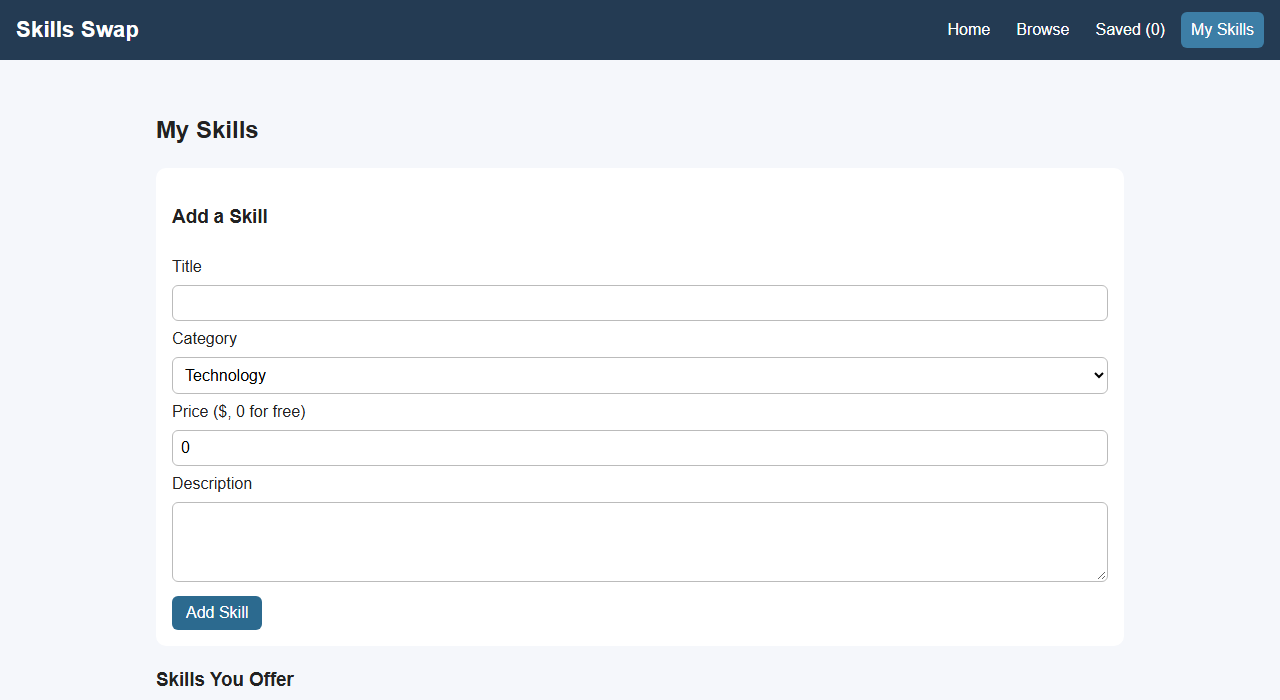
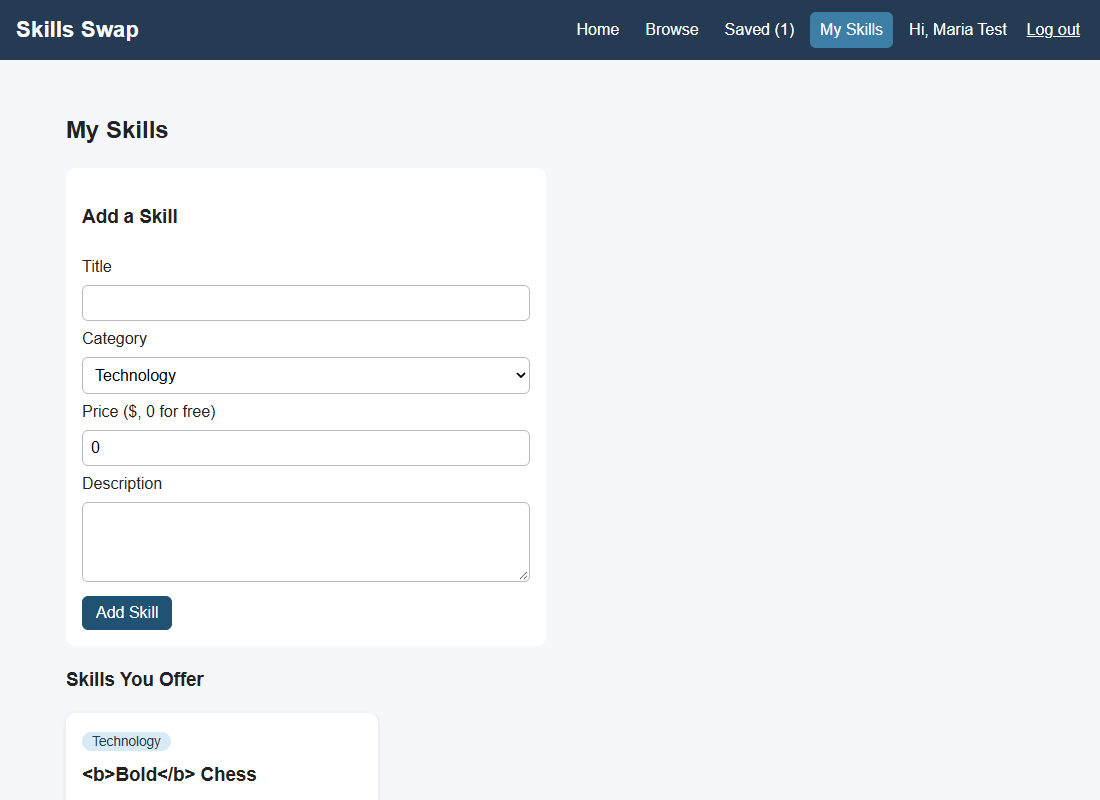
Update README for backend/auth, add login screenshots

diff --git a/README.md b/README.md
@@ -30,6 +30,12 @@ Skill details with related books from Open Library:
 
 ![Details](screenshots/details.png)
 
+Login and a registration validation error:
+
+![Login](screenshots/login.png)
+
+![Register error](screenshots/register-error.png)
+
 Mobile view (narrow screen, cards stack in one column):
 
 ![Mobile](screenshots/browse-mobile.png)
@@ -43,25 +49,36 @@ npm test
 
 ## Reused from earlier assignments
 The skill data shape (title, category, price, description), the category filter idea, and the color palette.
-The Unit 9 Express backend was replaced with local sample data so the app can be deployed on Vercel.
+The skill data shape is shared with the Unit 9 Express backend, which is now a real Express + Postgres API (`server/`).
 
-## Deployment
-1. Pushed the project to GitHub.
-2. Imported the repo in Vercel (Vite preset, build command `npm run build`, output folder `dist`).
-3. `vercel.json` sends every route to `index.html` so links like `/skills/1` still work when refreshed.
+## Backend and security
+- Express 5 API: `/api/auth/register|login|logout|me`, `/api/skills`, `/api/saved`.
+- Passwords hashed with bcrypt; sessions are a JWT in an `HttpOnly`, `SameSite` cookie (never in localStorage).
+- CSRF token required on every state-changing request, Origin check, rate limiting on auth routes, `helmet` + CSP headers.
+- All SQL is parameterized; React escapes user text (XSS test included).
+- Frontend: `AuthContext`, login/register pages with validation, protected routes (redirect back after login), API retry, PropTypes.
+
+## Run it with the backend
+```
+cp .env.example .env     # set JWT_SECRET (32+ chars)
+npm run dev:all          # API on :3001 + Vite on :5173
+```
+Without `DATABASE_URL` the API uses an in-memory PGlite database (data resets on restart). Set `DATABASE_URL` to use real Postgres.
+
+## Deployment (Vercel)
+1. Repo imported in Vercel (Vite preset, build `npm run build`, output `dist`).
+2. `vercel.json` sends `/api/*` to the serverless function in `api/index.js` and every other route to `index.html`.
+3. Required environment variables in Vercel: `DATABASE_URL` (hosted Postgres, e.g. Neon), `JWT_SECRET` (32+ random chars), `NODE_ENV=production`.
 
 ## Testing
-`npm test` runs 14 Vitest + React Testing Library tests (pages, search/filter, saving, adding skills, and the books API including the error case). I also checked the live site by hand: all pages load, books show covers and authors, and saved skills stay after a refresh.
+`npm test` runs 73 tests (Vitest, React Testing Library, Supertest): API registration/login/JWT/CSRF/rate limit, protected routes, session expiry, validation, XSS, retry, search/filter, saving, and the books API error case. `npm run lint` and `npm run build` pass.
 
 ## Known Issues
-- There is no backend, so skills and saved items are only stored in this browser (localStorage). Other students cannot see my skills.
-- My Skills can add skills but cannot edit or delete them yet (my wireframe had Edit/Delete).
-- Some books have no cover, so a "No cover" box is shown. Book results are only as good as Open Library's search.
-- If Open Library is slow or down, an error message shows instead of books.
-- No login, so "Offered by" names are just sample data.
+- Free-tier serverless cold starts make the first request slow.
+- My Skills can add skills but cannot edit or delete them yet.
+- Some books have no cover ("No cover" box); if Open Library is down an error message shows instead of books.
 
 ## Future Improvements
 - Edit and delete buttons for My Skills.
-- Node.js backend and database so skills are shared between students.
-- Login so people can only edit their own skills.
 - Messaging / request help, and reviews after a session.
+- Password reset by email.
